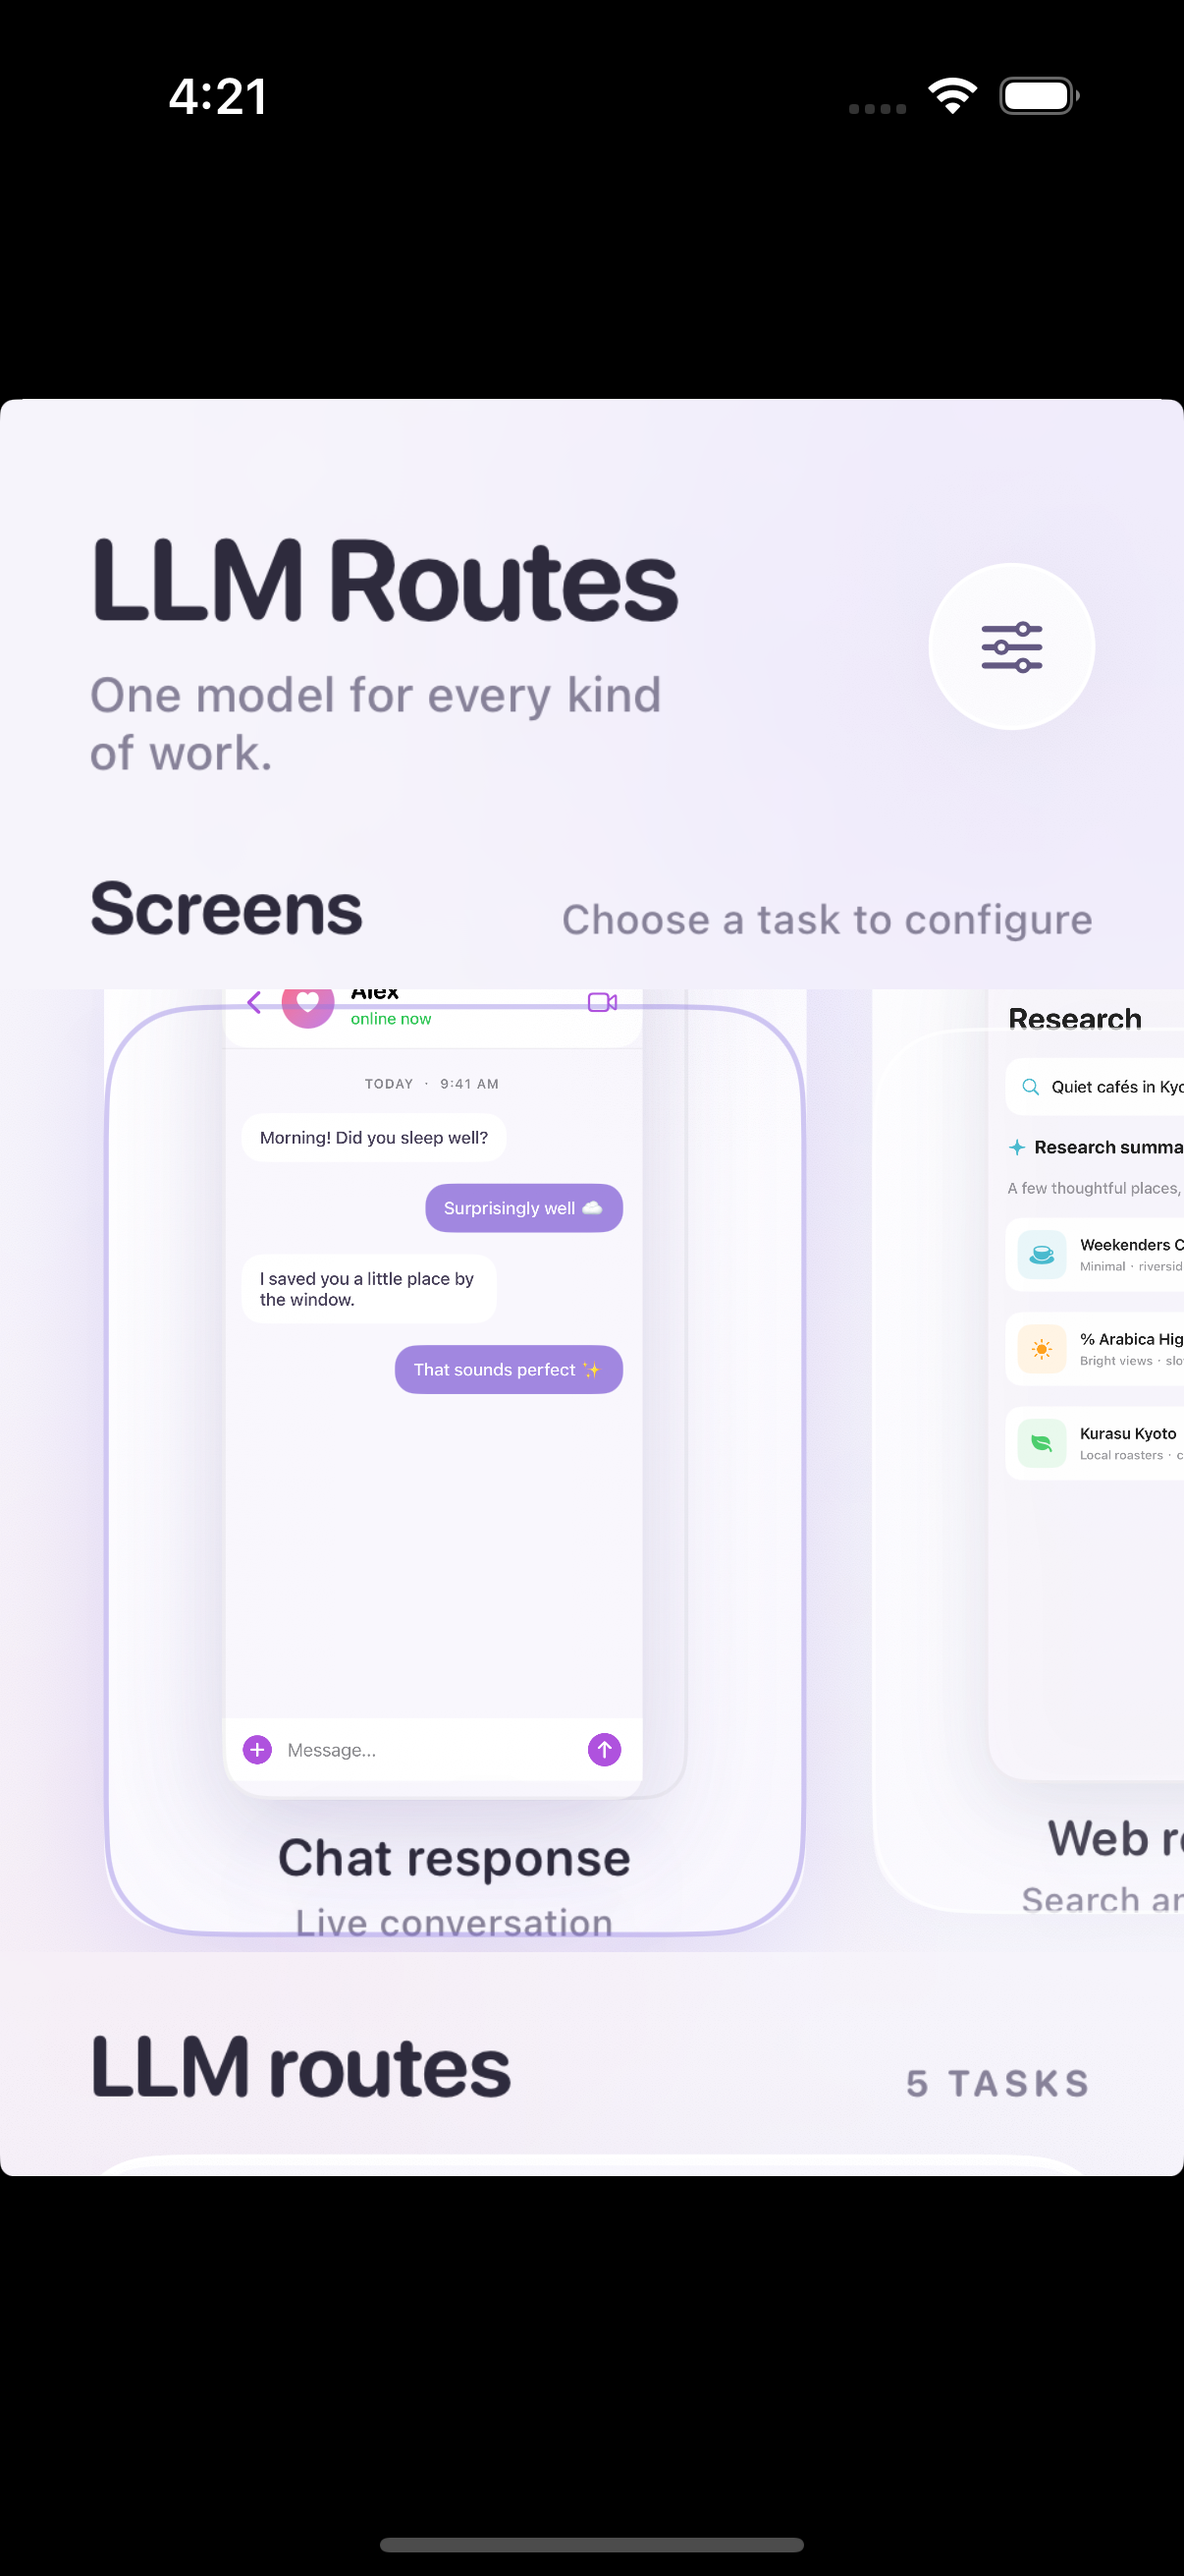
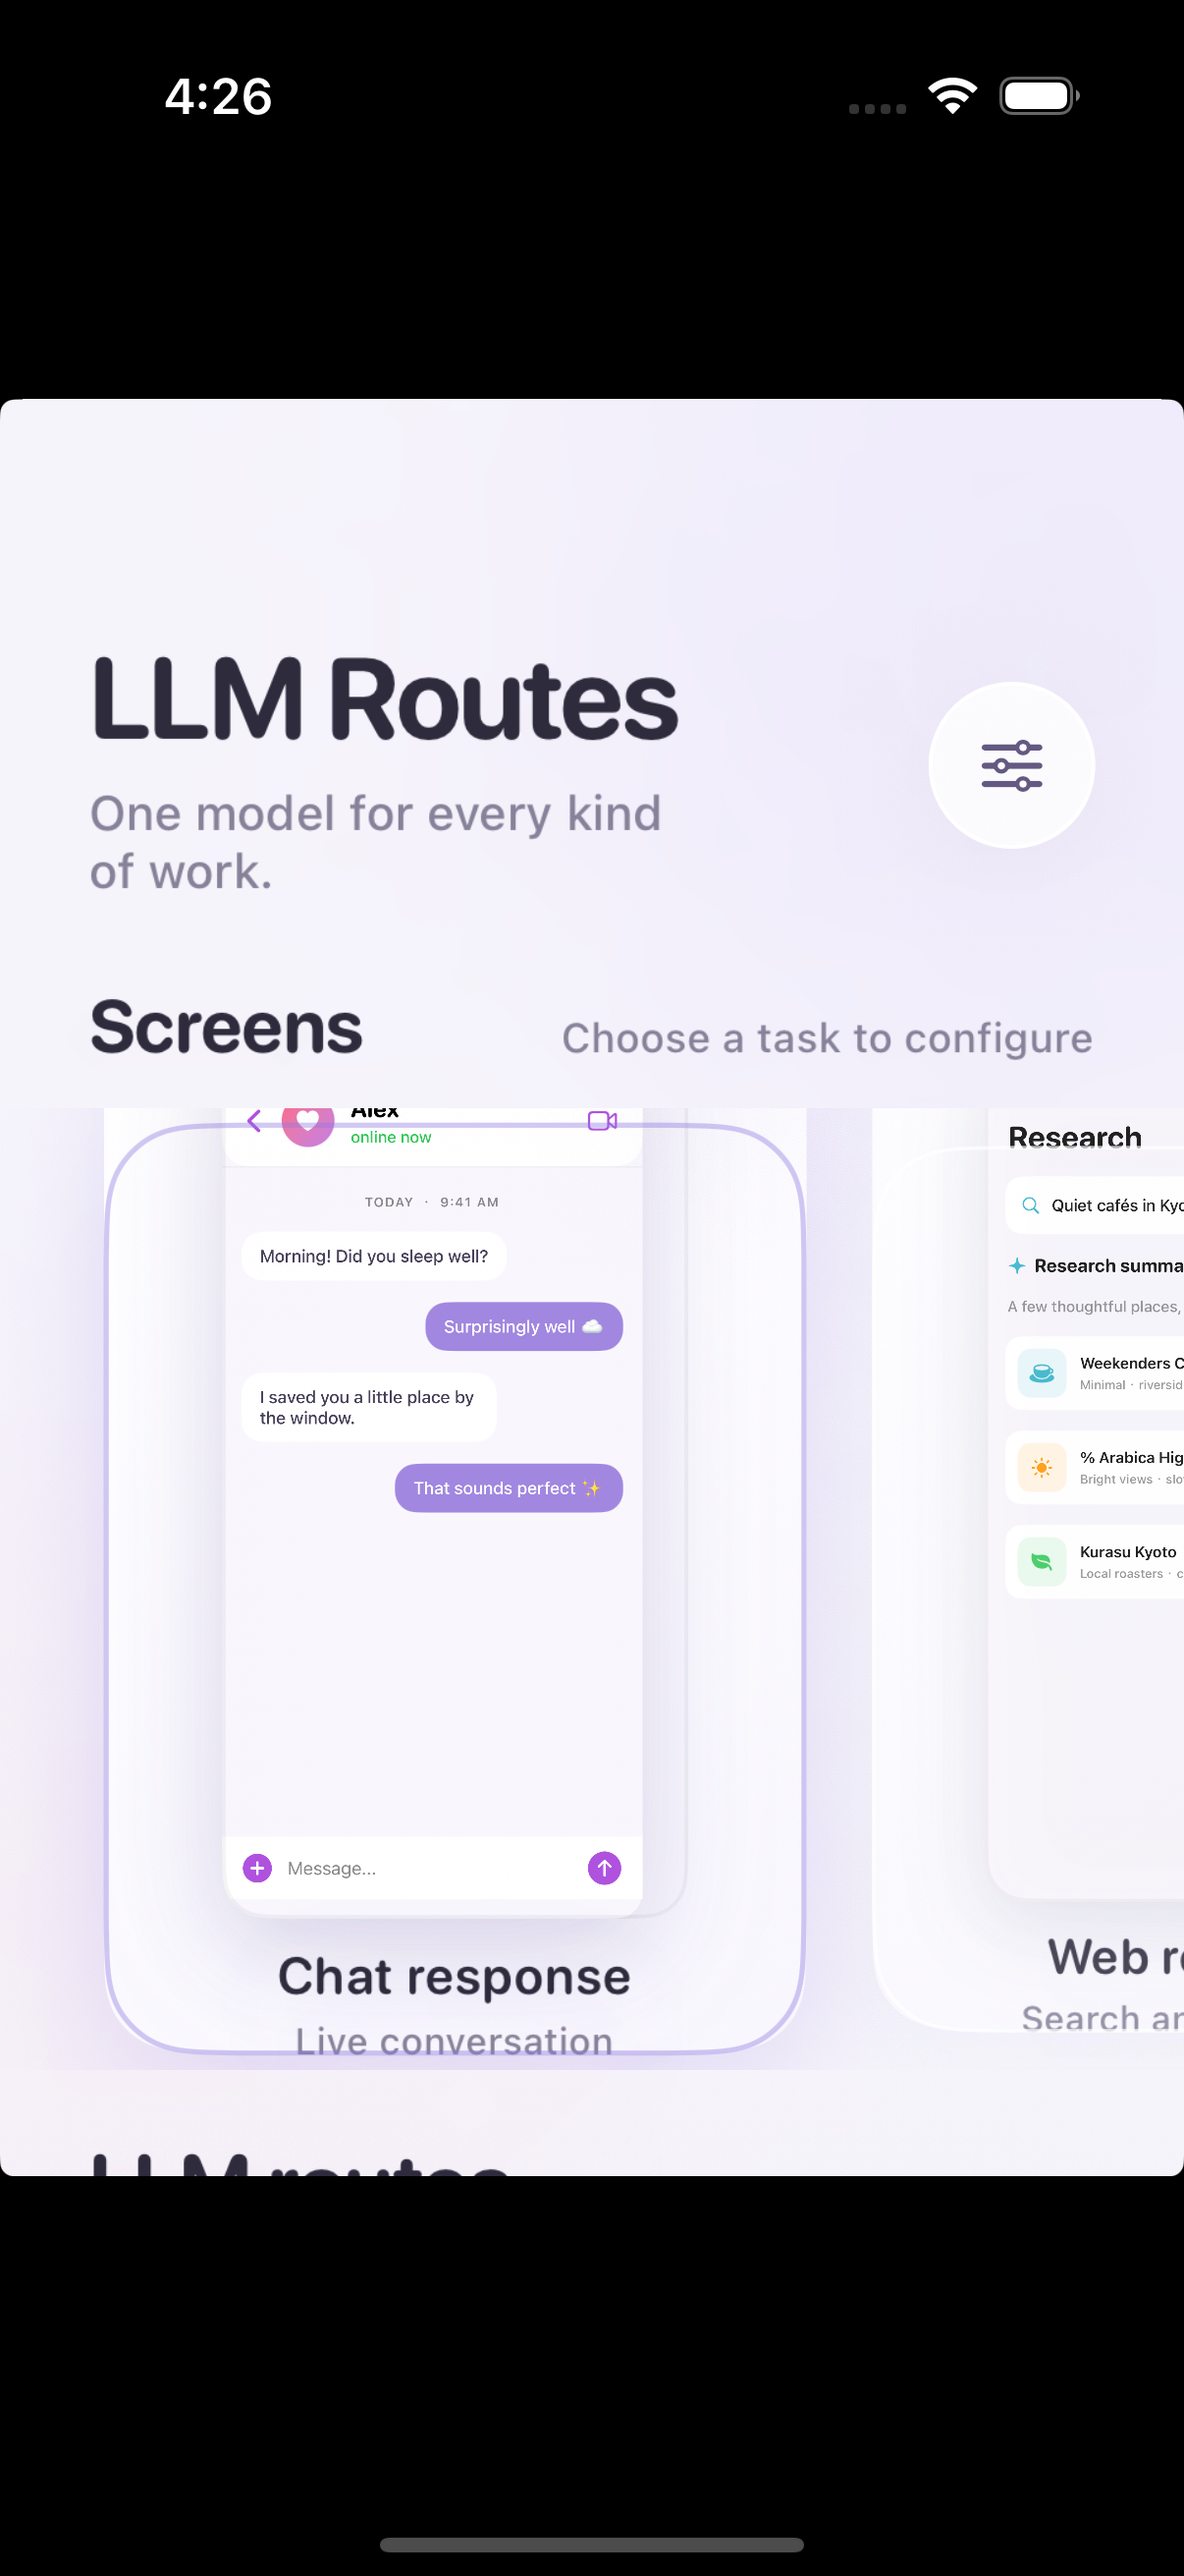
Refine LLM routes demo screen layout

diff --git a/Components/iOS/ScreenMiniature/Examples/LLMRoutesDemo/Sources/LLMRoutesDemoView.swift b/Components/iOS/ScreenMiniature/Examples/LLMRoutesDemo/Sources/LLMRoutesDemoView.swift
@@ -77,86 +77,88 @@ struct LLMRoutesDemoView: View {
     private let canvas = Color(red: 0.965, green: 0.958, blue: 0.985)
 
     var body: some View {
-        VStack(spacing: 0) {
-            header
-                .padding(.horizontal, 24)
-                .padding(.top, 10)
-                .padding(.bottom, 14)
+        GeometryReader { geometry in
+            VStack(spacing: 0) {
+                header
+                    .padding(.horizontal, 24)
+                    .padding(.top, 62)
+                    .padding(.bottom, 14)
 
-            ScrollView(showsIndicators: false) {
-                VStack(alignment: .leading, spacing: 0) {
-                    sectionHeading("Screens", detail: "Choose a task to configure")
+                ScrollView(showsIndicators: false) {
+                    VStack(alignment: .leading, spacing: 0) {
+                        sectionHeading("Screens", detail: "Choose a task to configure")
+                            .padding(.horizontal, 24)
+                            .padding(.top, 8)
+                            .padding(.bottom, 10)
+
+                        screenCarousel
+                            .padding(.bottom, 17)
+
+                        HStack(alignment: .firstTextBaseline) {
+                            Text("LLM routes")
+                                .font(.system(size: 23, weight: .bold, design: .rounded))
+                                .tracking(-0.55)
+                                .foregroundStyle(ink)
+                            Spacer()
+                            Text("\(routes.count) TASKS")
+                                .font(.system(size: 10, weight: .bold, design: .rounded))
+                                .tracking(1.15)
+                                .foregroundStyle(muted)
+                        }
                         .padding(.horizontal, 24)
-                        .padding(.top, 8)
                         .padding(.bottom, 10)
 
-                    screenCarousel
-                        .padding(.bottom, 17)
-
-                    HStack(alignment: .firstTextBaseline) {
-                        Text("LLM routes")
-                            .font(.system(size: 23, weight: .bold, design: .rounded))
-                            .tracking(-0.55)
-                            .foregroundStyle(ink)
-                        Spacer()
-                        Text("\(routes.count) TASKS")
-                            .font(.system(size: 10, weight: .bold, design: .rounded))
-                            .tracking(1.15)
-                            .foregroundStyle(muted)
-                    }
-                    .padding(.horizontal, 24)
-                    .padding(.bottom, 10)
-
-                    VStack(spacing: 0) {
-                        ForEach(Array(routes.enumerated()), id: \.element.id) { index, route in
-                            routeRow(route)
-                            if index < routes.count - 1 {
-                                Rectangle()
-                                    .fill(Color(red: 0.91, green: 0.89, blue: 0.94))
-                                    .frame(height: 1)
-                                    .padding(.leading, 68)
-                                    .padding(.trailing, 16)
+                        VStack(spacing: 0) {
+                            ForEach(Array(routes.enumerated()), id: \.element.id) { index, route in
+                                routeRow(route)
+                                if index < routes.count - 1 {
+                                    Rectangle()
+                                        .fill(Color(red: 0.91, green: 0.89, blue: 0.94))
+                                        .frame(height: 1)
+                                        .padding(.leading, 68)
+                                        .padding(.trailing, 16)
+                                }
                             }
                         }
-                    }
-                    .background(.white.opacity(0.94), in: RoundedRectangle(cornerRadius: 25, style: .continuous))
-                    .overlay {
-                        RoundedRectangle(cornerRadius: 25, style: .continuous)
-                            .strokeBorder(.white.opacity(0.9), lineWidth: 1)
-                    }
-                    .shadow(color: Color(red: 0.43, green: 0.35, blue: 0.63).opacity(0.055), radius: 24, x: 0, y: 10)
-                    .padding(.horizontal, 18)
-                    .padding(.bottom, 18)
+                        .background(.white.opacity(0.94), in: RoundedRectangle(cornerRadius: 25, style: .continuous))
+                        .overlay {
+                            RoundedRectangle(cornerRadius: 25, style: .continuous)
+                                .strokeBorder(.white.opacity(0.9), lineWidth: 1)
+                        }
+                        .shadow(color: Color(red: 0.43, green: 0.35, blue: 0.63).opacity(0.055), radius: 24, x: 0, y: 10)
+                        .padding(.horizontal, 18)
+                        .padding(.bottom, 18)
 
-                    HStack(spacing: 6) {
-                        Image(systemName: "lock.shield.fill")
-                            .font(.system(size: 11, weight: .medium))
-                        Text("Each task can use its own model")
-                            .font(.system(size: 12, weight: .medium))
+                        HStack(spacing: 6) {
+                            Image(systemName: "lock.shield.fill")
+                                .font(.system(size: 11, weight: .medium))
+                            Text("Each task can use its own model")
+                                .font(.system(size: 12, weight: .medium))
+                        }
+                        .foregroundStyle(muted)
+                        .frame(maxWidth: .infinity)
+                        .padding(.bottom, 32)
                     }
-                    .foregroundStyle(muted)
-                    .frame(maxWidth: .infinity)
-                    .padding(.bottom, 22)
+                }
+            }
+            .frame(width: geometry.size.width, height: geometry.size.height, alignment: .top)
+            .background {
+                ZStack(alignment: .topTrailing) {
+                    canvas
+                    Circle()
+                        .fill(Color(red: 0.87, green: 0.82, blue: 0.99).opacity(0.25))
+                        .frame(width: 270, height: 270)
+                        .blur(radius: 55)
+                        .offset(x: 100, y: -70)
+                    Circle()
+                        .fill(Color(red: 0.97, green: 0.84, blue: 0.90).opacity(0.22))
+                        .frame(width: 220, height: 220)
+                        .blur(radius: 60)
+                        .offset(x: -160, y: 300)
                 }
             }
         }
-        .frame(maxWidth: .infinity, maxHeight: .infinity, alignment: .top)
-        .background {
-            ZStack(alignment: .topTrailing) {
-                canvas
-                Circle()
-                    .fill(Color(red: 0.87, green: 0.82, blue: 0.99).opacity(0.25))
-                    .frame(width: 270, height: 270)
-                    .blur(radius: 55)
-                    .offset(x: 100, y: -70)
-                Circle()
-                    .fill(Color(red: 0.97, green: 0.84, blue: 0.90).opacity(0.22))
-                    .frame(width: 220, height: 220)
-                    .blur(radius: 60)
-                    .offset(x: -160, y: 300)
-            }
-            .ignoresSafeArea()
-        }
+        .ignoresSafeArea()
         .preferredColorScheme(.light)
         .sheet(item: $editingTask) { task in
             providerPicker(for: task)
